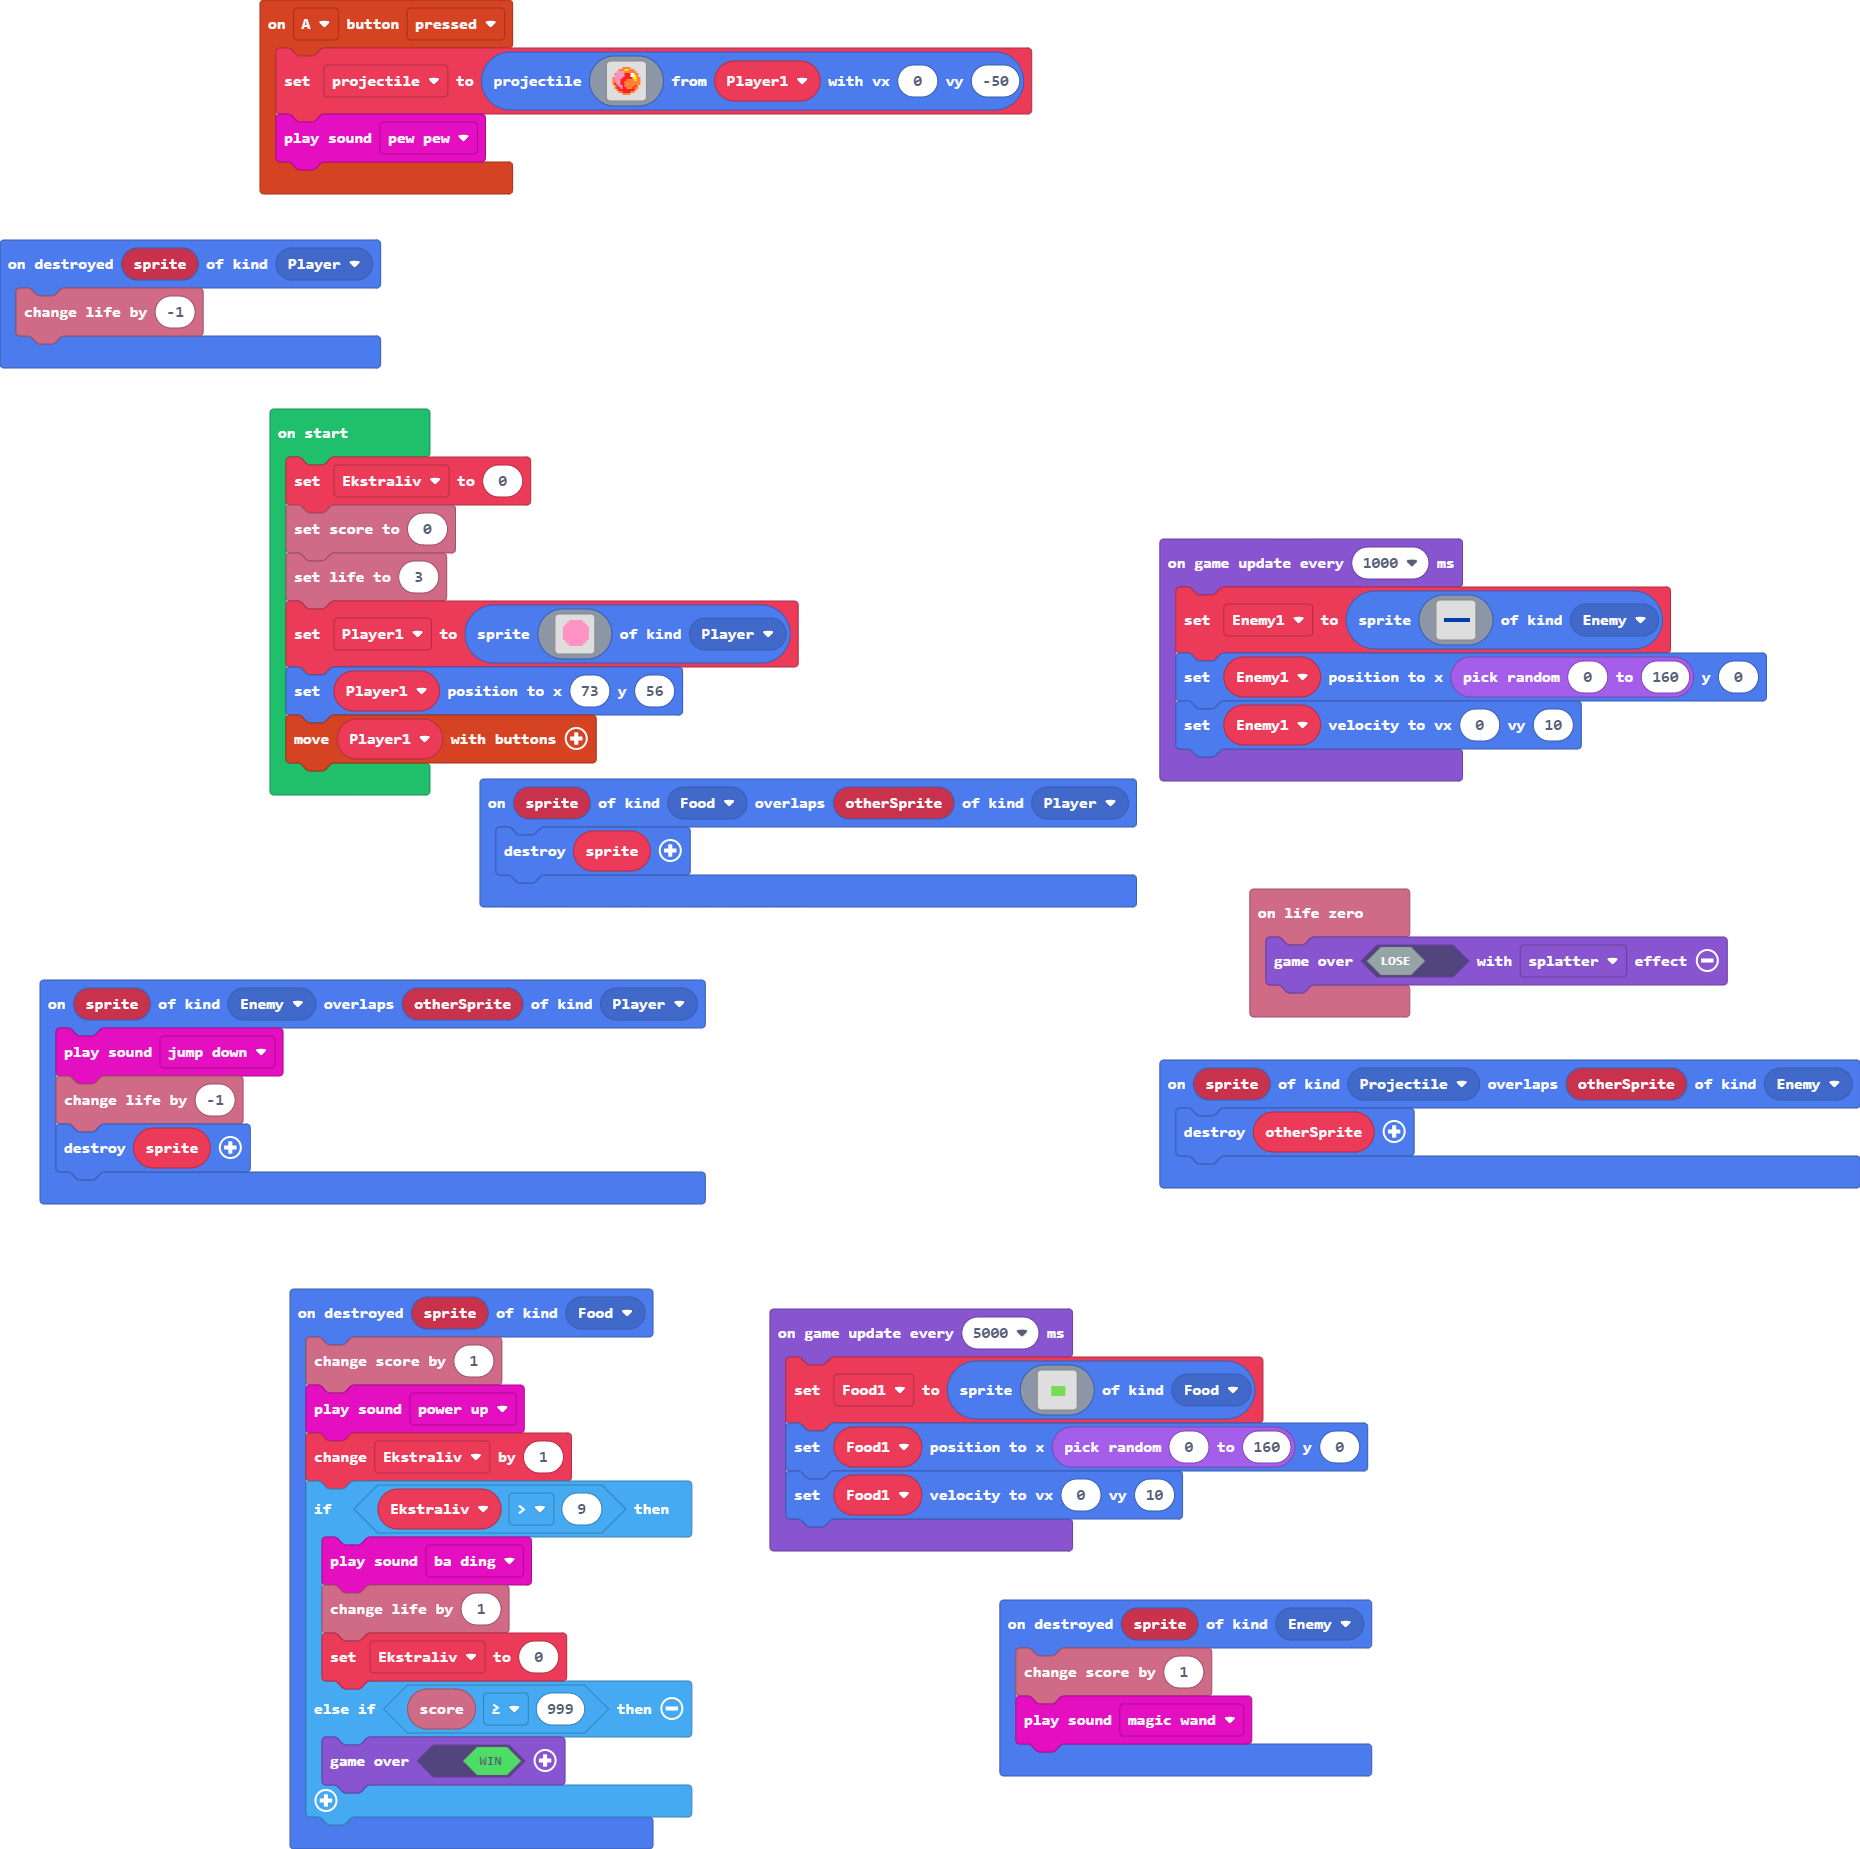
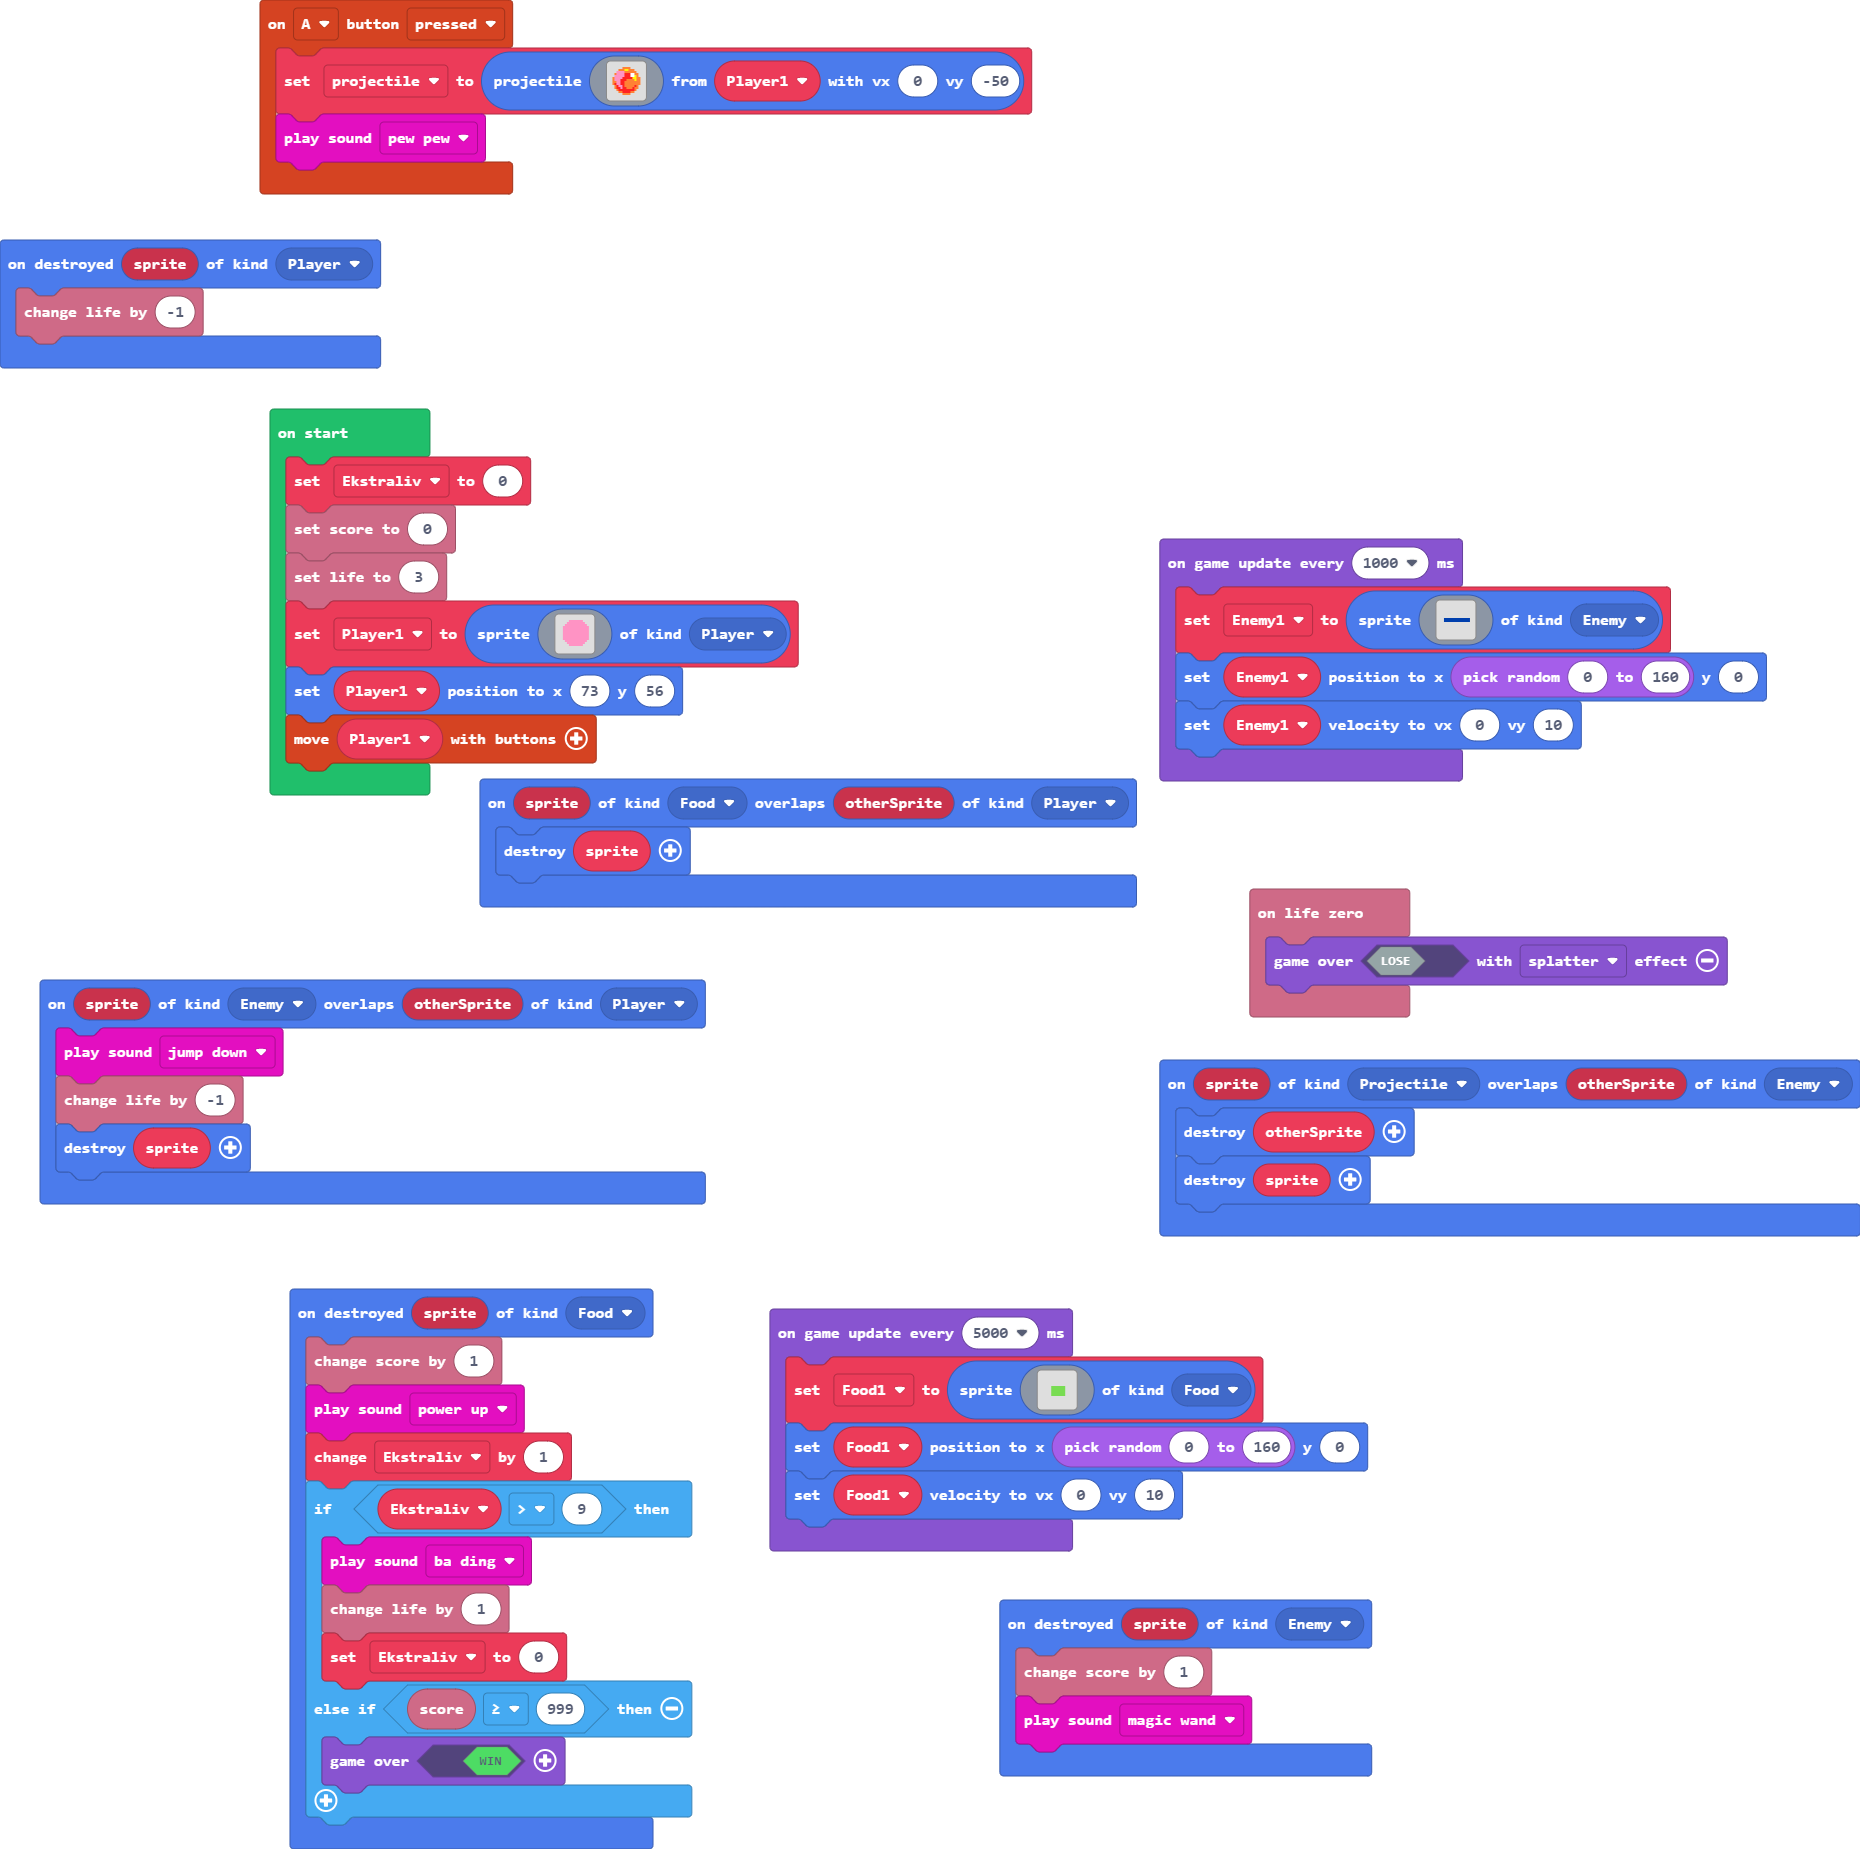
Fixed shooting and removed unused blocks,

Changed region(s): [[0.6237, 0.6165, 1.0, 0.6782]]

diff --git a/main.ts b/main.ts
@@ -51,6 +51,7 @@ sprites.onDestroyed(SpriteKind.Player, function (sprite) {
 })
 sprites.onOverlap(SpriteKind.Projectile, SpriteKind.Enemy, function (sprite, otherSprite) {
     otherSprite.destroy()
+    sprite.destroy()
 })
 let Enemy1: Sprite = null
 let Food1: Sprite = null
